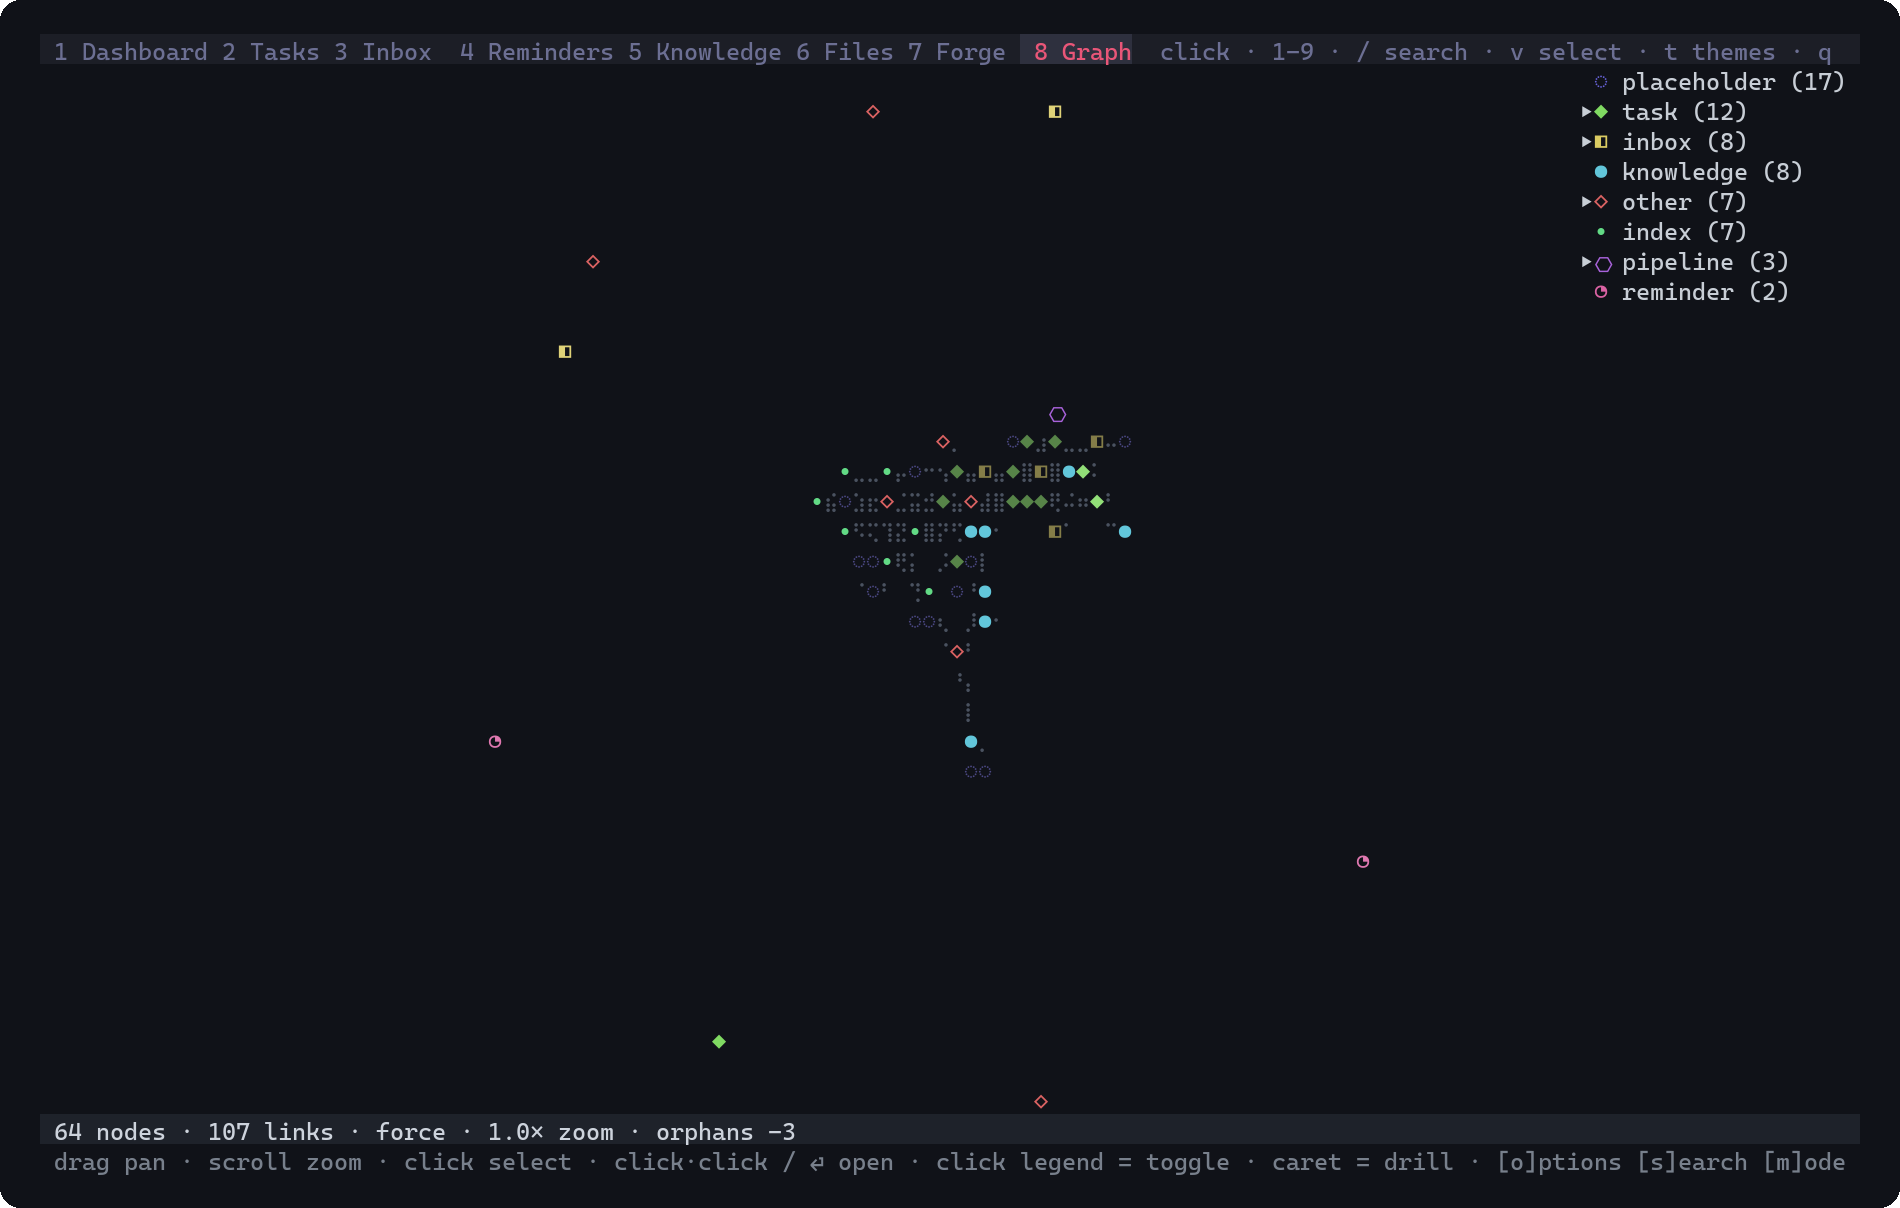
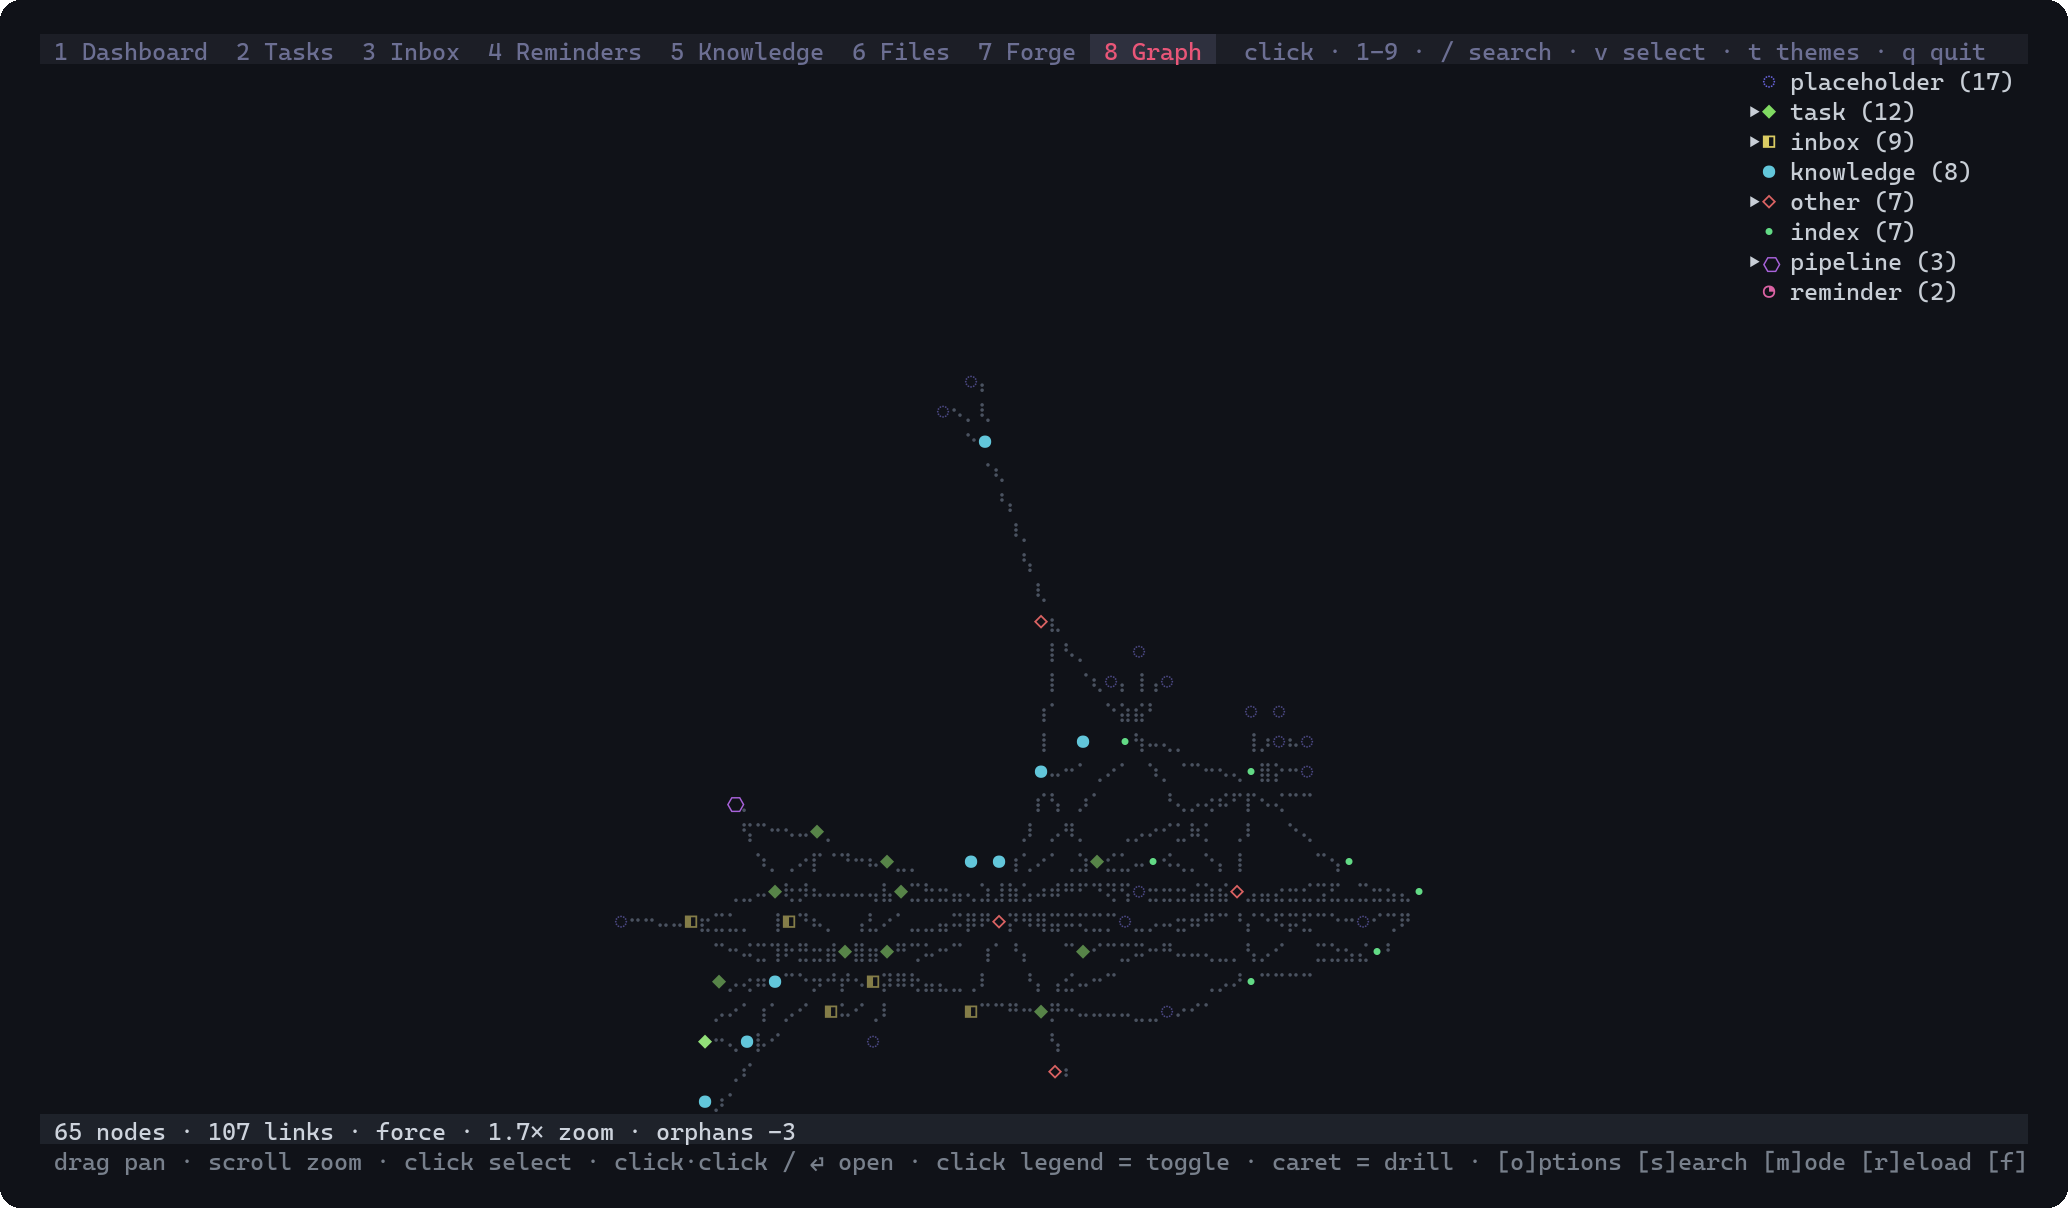
init: iris lands on PATH with the house; the house teaches its own org surface
arcus init now links the freshly installed companion binaries (multi-tool
and dash) into the directory the running arcus executable lives in — if
arcus resolves on PATH, iris does too, no shell-config or registry surgery
on any platform. Hard link first, copy fallback, previous copies moved
aside, and a failure degrades silently: the install itself already
succeeded. The init summary names the linked directory.

The planted AGENTS.md gains the org-surface wiring the live houses already
practice: the iris verbs as the preferred CRUD surface (every write goes
through the regula core — schemas, legal lifecycle transitions, placement),
iris regula lint as the leave-step, and direct file edits as the always-
legitimate fallback when iris is absent. docs/iris.md gains 'The regula
core'; onboarding + README updated; changelog updated.

All eight dash screenshots re-captured at 142 columns (full hint bar, no
truncated 'quit'), with the panel-title fix in frame and the graph shot
wheel-zoomed to 1.7x on the cluster.

diff --git a/crates/codegen/xai-grok-pager/src/init_cmd/iris_fetch.rs b/crates/codegen/xai-grok-pager/src/init_cmd/iris_fetch.rs
@@ -59,7 +59,13 @@ fn asset_names(suffix: &str) -> (String, String) {
 /// What happened, in terms the summary can print verbatim.
 #[derive(Debug, Clone, PartialEq, Eq)]
 pub enum IrisOutcome {
-    Installed { rel_path: String, version: String },
+    Installed {
+        rel_path: String,
+        version: String,
+        /// Directory the binaries were also linked into (beside `arcus`), when
+        /// that succeeded — i.e. `iris` is now on PATH wherever `arcus` is.
+        linked: Option<String>,
+    },
     OptedOut,
     /// No published asset for this host.
     UnsupportedHost { host: String },
@@ -71,9 +77,12 @@ impl IrisOutcome {
     /// One line for the init summary. `None` when there is nothing worth saying.
     pub fn summary_line(&self) -> Option<String> {
         match self {
-            Self::Installed { rel_path, version } => {
-                Some(format!("  iris:      installed {rel_path} ({version})"))
-            }
+            Self::Installed { rel_path, version, linked } => Some(match linked {
+                Some(dir) => format!(
+                    "  iris:      installed {rel_path} ({version}) — on PATH beside arcus ({dir})"
+                ),
+                None => format!("  iris:      installed {rel_path} ({version})"),
+            }),
             Self::OptedOut => None,
             Self::UnsupportedHost { host } => Some(format!(
                 "  iris:      no published build for {host} — build it from source: \
@@ -100,12 +109,14 @@ pub fn install(root: &Path, version: &str, dry_run: bool) -> IrisOutcome {
         return IrisOutcome::Installed {
             rel_path: format!("{IRIS_REL}/ (would fetch {archive})"),
             version: version.to_string(),
+            linked: None,
         };
     }
     match try_install(root, version, suffix) {
-        Ok(rel_path) => IrisOutcome::Installed {
+        Ok((rel_path, linked)) => IrisOutcome::Installed {
             rel_path,
             version: version.to_string(),
+            linked,
         },
         Err(err) => IrisOutcome::Failed {
             // `{err:#}` keeps the cause chain — the plain form tells the user
@@ -115,7 +126,7 @@ pub fn install(root: &Path, version: &str, dry_run: bool) -> IrisOutcome {
     }
 }
 
-fn try_install(root: &Path, version: &str, suffix: &str) -> Result<String> {
+fn try_install(root: &Path, version: &str, suffix: &str) -> Result<(String, Option<String>)> {
     let (archive_name, binary_name) = asset_names(suffix);
     let base = format!("{RELEASE_BASE}/v{version}");
     let archive_url = format!("{base}/{archive_name}");
@@ -160,7 +171,58 @@ fn try_install(root: &Path, version: &str, suffix: &str) -> Result<String> {
         make_executable(&dest.join(name));
     }
 
-    Ok(format!("{IRIS_REL}/"))
+    let linked = link_onto_path(&dest, &installed);
+    Ok((format!("{IRIS_REL}/"), linked))
+}
+
+/// Put `iris` on PATH the way `arcus` already is: link the freshly installed
+/// binaries into the directory the running `arcus` executable lives in. If
+/// `arcus` resolves on PATH, `iris` now does too — no rc-file or registry
+/// surgery, and it works identically on every platform. Hard link first
+/// (free, same volume), copy as fallback (different volume). A locked or
+/// unwritable destination degrades silently: the install itself already
+/// succeeded, and the manual hint in the docs still applies.
+///
+/// The dash sibling is linked under its short name (`iris-dash[.exe]`),
+/// which the multi-tool's sibling resolution accepts, so `iris dash` works
+/// from PATH as well.
+fn link_onto_path(dest: &Path, installed: &[String]) -> Option<String> {
+    let bin_dir = std::env::current_exe().ok()?.parent()?.to_path_buf();
+    // Nothing to do if arcus is somehow running out of the install dir.
+    if bin_dir == *dest {
+        return None;
+    }
+    let exe = |name: &str| {
+        if cfg!(windows) { format!("{name}.exe") } else { name.to_string() }
+    };
+    let mut pairs: Vec<(std::path::PathBuf, std::path::PathBuf)> =
+        vec![(dest.join(exe("iris")), bin_dir.join(exe("iris")))];
+    if let Some(dash) = installed.iter().find(|n| n.starts_with("iris-dash")) {
+        pairs.push((dest.join(dash), bin_dir.join(exe("iris-dash"))));
+    }
+    let mut any = false;
+    for (src, target) in pairs {
+        if !src.exists() {
+            continue;
+        }
+        // Move a previous copy aside rather than deleting it: on Windows a
+        // running binary holds its file lock, but a locked file can still be
+        // renamed — the same swap the installers use.
+        if target.exists() {
+            let prev = target.with_extension("prev");
+            let _ = std::fs::remove_file(&prev);
+            if std::fs::rename(&target, &prev).is_err() && target.exists() {
+                continue;
+            }
+        }
+        let ok = std::fs::hard_link(&src, &target).is_ok()
+            || std::fs::copy(&src, &target).is_ok();
+        if ok {
+            make_executable(&target);
+            any = true;
+        }
+    }
+    any.then(|| bin_dir.display().to_string())
 }
 
 fn get_bytes(client: &reqwest::blocking::Client, url: &str) -> Result<Vec<u8>> {

diff --git a/docs/iris.md b/docs/iris.md
@@ -87,6 +87,26 @@ an orientation file (`AGENTS.md` / `AGENT.md` / `CLAUDE.md`) beside a `tasks/`
 directory (the daemon also accepts the root as a positional argument, which
 wins). Callers refuse a silent cwd fallback when no root resolves.
 
+### The regula core
+
+Every write — CLI verb or dash action — goes through **`@arcus/regula`**,
+the org write authority. It owns the document schemas (frontmatter shapes
+per type), the **legal lifecycle transitions** (a task moves
+`active → review → complete`, not arbitrarily; terminal inbox items get a
+`resolution` and move to `resolved/`), **folder placement** (status decides
+the directory, and the verbs move files when status changes), and the
+**lint** (`iris regula lint` — errors fail, warnings are the open
+data-quality queue). The point of routing writes through one core: a verb
+cannot produce a file the house schema would call malformed, and two
+surfaces (CLI, dash) cannot drift apart on what "complete" means.
+
+The house is wired to it natively: the `AGENTS.md` that `arcus init` plants
+teaches the resident agent to prefer the iris verbs for org CRUD and to run
+`iris regula lint` before ending a session — so the agent, the CLI, and the
+dash all write through the same authority. When iris is absent, direct file
+edits against the schemas remain fully legitimate; the files are the source
+of truth either way.
+
 The **dash** auto-spawns the daemon when nothing answers on the port. Plain
 CLI verbs that need the index do not auto-spawn — they fail with a one-line
 hint to start it.
@@ -107,10 +127,13 @@ A failed download never fails the house: the tree is already written, the
 summary names what happened, and `arcus init --refresh` finishes the job
 later.
 
-Init does **not** put iris on your `PATH` — the binaries live in the house.
-Add `instruments/iris/` to `PATH` (or copy the multi-tool somewhere already
-on it) if you want `iris` available everywhere; `arcus setup` step 3 records
-whether it found one.
+Init also puts iris **on your `PATH`** — by linking the binaries (multi-tool
+and dash) into the directory the running `arcus` executable lives in. If
+`arcus` resolves on `PATH`, `iris` now does too; no shell-config or registry
+surgery, same behavior on every platform. The init summary names the
+directory when the link lands; if that directory is unwritable the binaries
+still work from `instruments/iris/`, and `arcus setup` step 3 records
+whether `iris` was found on `PATH`.
 
 Published targets: `linux-x64`, `windows-x64`, `darwin-arm64`. Other hosts
 are told plainly there is no published asset and pointed at the source build.

diff --git a/templates/house/AGENTS.md b/templates/house/AGENTS.md
@@ -168,6 +168,32 @@ Empty containers carry `.gitkeep` so they survive a clone.
 house. The split is by what a thing points at, not by size — see each folder's
 README.
 
+## The iris companion (org surface)
+
+Init installs **iris** under `instruments/iris/` and links it beside the
+`arcus` binary, so it resolves on PATH wherever `arcus` does. It is the
+preferred surface for org CRUD — every write goes through its **regula**
+core, which enforces the frontmatter schemas above, the legal lifecycle
+transitions, and folder placement, so a verb cannot produce a file this
+document would call malformed:
+
+```sh
+iris task list --json          # and create/complete/pause/block/update …
+iris inbox capture "…"         # and list/resolve/move/promote …
+iris reminder list             # and create/complete/snooze/dismiss …
+iris knowledge create --title "…"
+iris search "query"            # fuzzy index search (daemon-backed)
+iris regula lint               # the house lint — errors fail; warnings are
+                               # the open data-quality queue
+iris                           # the dash (interactive; needs a TTY)
+```
+
+Prefer the verbs over hand-editing frontmatter: they cannot drift from the
+schemas, and the live index (daemon on `127.0.0.1:3853`) stays coherent.
+When iris is absent (`--no-iris` installs, unsupported hosts), direct file
+edits against the schemas above are the fallback and remain fully
+legitimate — the files are the source of truth either way.
+
 ### Tasks (`tasks/**/*.md`)
 
 ```yaml
@@ -251,8 +277,10 @@ Path-style, extension omitted (`[[tasks/completed/example-task]]`).
 - **Evidence bar:** an absence claim is a claim — enumerate fully (never
   truncate a listing between search and conclusion), filter by predicate and
   count, re-run when the claim goes durable.
-- **Leave:** update [[context/current-state]] (standing reality only; keep it
-  short enough to re-read every session — new changes land under
+- **Leave:** run `iris regula lint` when the companion is installed (errors
+  fail; warnings are the open data-quality queue), update
+  [[context/current-state]] (standing reality only; keep it short enough to
+  re-read every session — new changes land under
   `## Recent structural changes (DATE)`; aged sections migrate to
   `context/previous-state.md`), commit with a message the next session can
   orient from, push per operator policy.

diff --git a/docs/onboarding.md b/docs/onboarding.md
@@ -68,12 +68,13 @@ iris companion install (§ below).
 ```
 
 **Iris companion (also installed by default):** init downloads the iris
-release archive for your platform, verifies its published checksum, and
-unpacks the binaries into `instruments/iris/`. This is the only part of
-`init` that touches the network — `--no-iris` skips it and makes `init`
-fully offline. A failed download never fails the house; the summary says
-what happened and `arcus init --refresh` finishes later. See
-[iris.md](iris.md).
+release archive for your platform, verifies its published checksum, unpacks
+the binaries into `instruments/iris/`, and **links them beside the `arcus`
+binary** — so `iris` resolves on `PATH` wherever `arcus` does, with no
+manual step. This is the only part of `init` that touches the network —
+`--no-iris` skips it and makes `init` fully offline. A failed download
+never fails the house; the summary says what happened and
+`arcus init --refresh` finishes later. See [iris.md](iris.md).
 
 **Also (not a house file):** init appends the absolute path of
 `<house>/.arcus/hooks` to the global always-trusted registry
@@ -137,7 +138,7 @@ content belongs to and how to customize it safely.
 |------|------|-------|
 | `.arcus/house-install.json` | Install manifest (`version` + `files` → sha256) | **Tool-managed** — refresh uses it as the source of truth for "untouched". Do not hand-edit hashes. |
 | `~/.arcus/hooks-paths` (global) | Always-trusted hooks directory registry | Re-run init (hooks enabled) re-registers if missing. Remove the project line to drop global trust. |
-| `instruments/iris/` | The iris companion binaries | Fetched from the matching release; `--no-iris` skips (offline switch). |
+| `instruments/iris/` | The iris companion binaries | Fetched from the matching release, then linked beside the `arcus` binary onto `PATH`; `--no-iris` skips (offline switch). |
 
 ---
 

diff --git a/crates/codegen/xai-grok-shell-base/assets/arcus-changelog.md b/crates/codegen/xai-grok-shell-base/assets/arcus-changelog.md
@@ -8,6 +8,17 @@ work it describes.
 
 ## Unreleased
 
+- **Iris lands on PATH with the house.** `arcus init` now links the freshly
+  installed companion binaries beside the running `arcus` executable — if
+  `arcus` resolves on PATH, `iris` (and `iris dash`) now do too, with no
+  shell-config or registry surgery on any platform. The planted `AGENTS.md`
+  also teaches the resident agent the iris org verbs and the
+  `iris regula lint` leave-step, so agent, CLI, and dash all write through
+  the same regula authority.
+- **Dash panels keep their titles under pressure.** Panel headers are pinned
+  chrome now: a vertically squashed panel clips its body instead of painting
+  the body over its own title (the interleaved-text artifact on the
+  Dashboard's Recent Commits pane).
 - **DeepSeek V4 Flash is the recommended model path.** The setup wizard's
   first slot writes `deepseek/deepseek-v4-flash-0731` over OpenRouter at the
   provider's reported completion ceiling; the GLM-5.2 recipes remain, and the

diff --git a/README.md b/README.md
@@ -202,8 +202,11 @@ What got installed and what you own: [`docs/onboarding.md`](docs/onboarding.md).
 org CRUD verbs (`task` / `inbox` / `reminder` / `knowledge`), and an
 interactive dash over the tree `arcus init` plants — Dashboard, Tasks,
 Inbox, Reminders, Knowledge, Files, Forge, and Graph tabs. `arcus init`
-installs it into the house by default; it is never required to run Arcus
-Build itself. Local-first: the daemon binds loopback only, and there is no
+installs it into the house by default and links it beside the `arcus`
+binary, so it is on `PATH` with no manual step; it is never required to run
+Arcus Build itself. Every write goes through its **regula** core — schemas,
+legal lifecycle transitions, placement, lint — and the planted `AGENTS.md`
+wires the resident agent to the same verbs. Local-first: the daemon binds loopback only, and there is no
 telemetry. Full story (with a screenshot of every tab):
 [`docs/iris.md`](docs/iris.md).
 
